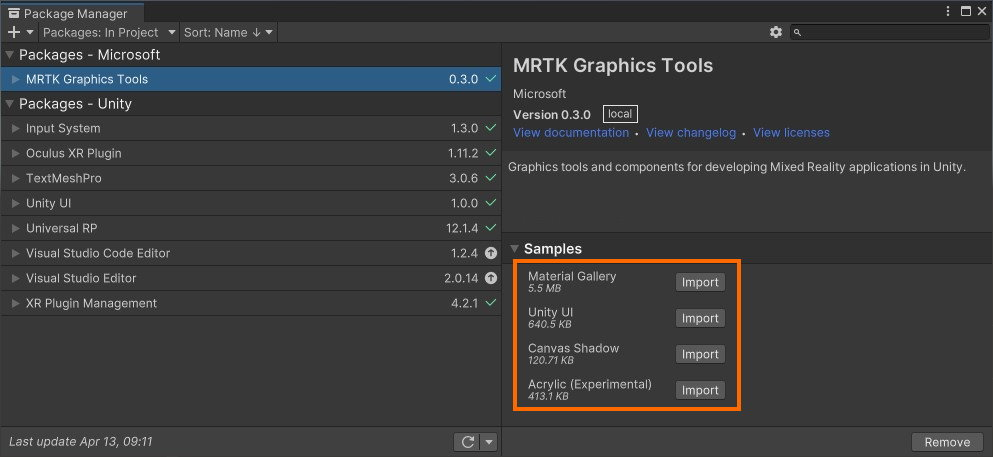
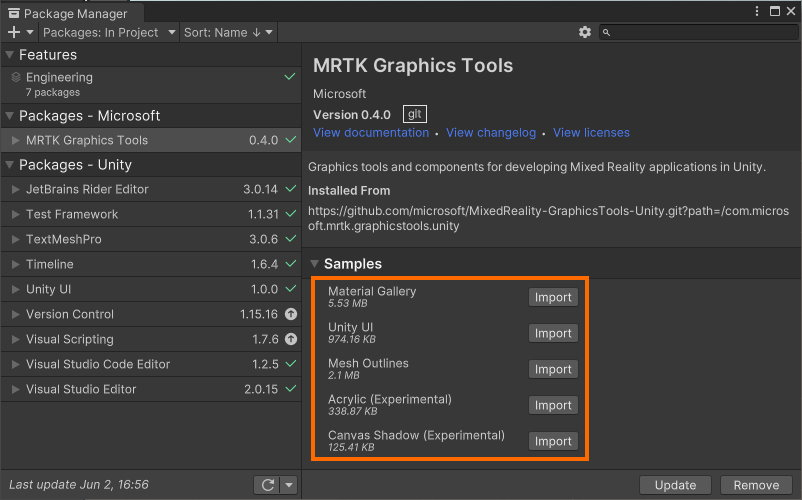
Index and contrib updates.

diff --git a/mrtk-unity/mrtk3-graphicstools/index.md b/mrtk-unity/mrtk3-graphicstools/index.md
@@ -8,37 +8,32 @@ ms.localizationpriority: high
 keywords: Unity, HoloLens, HoloLens 2, Mixed Reality, development, MRTK, Graphics Tools, MRGT, MR Graphics Tools, Standard Shader
 ---
 
-# What is the Mixed Reality Graphics Tools
+![Graphics Tools](images/MRTKBanner.png)
 
-![MRTK Banner](images/MRTKBanner.png)
+# What is Graphics Tools?
 
-Graphics tools and components for developing Mixed Reality applications in Unity.
+MRTK Graphics Tools for Unity is a Unity engine package with code, shaders, assets, and samples created to help improve the visual fidelity of Mixed Reality applications while staying within performance budgets.
 
-> **_NOTE:_** This package is an evolution of the [MRTK/Standard shader system](https://docs.microsoft.com/en-us/windows/mixed-reality/mrtk-unity/features/rendering/mrtk-standard-shader?view=mrtkunity-2021-05) and other components. The equivalent of the `MRTK/Standard` shader within Graphics Tools is the `Graphics Tools/Standard` shader. New features have been added to better support Unity UI and the new Mixed Reality Design System.
+> [!NOTE]
+> The Graphics Tools package requires Unity 2020.x and above.
 
-> **_NOTE:_** Graphics Tools requires Unity 2020.x and above.
+## Getting started with Graphic Tools
+
+If using MRTK please follow the getting started docs found [here](https://docs.microsoft.com/windows/mixed-reality/mrtk-unity/mrtk2/?view=mrtkunity-2022-05#getting-started-with-mrtk). If you wish to use the Graphics Tools plugin on its own, please read the instructions in the Graphics Tools [GitHub repository](https://github.com/microsoft/MixedReality-GraphicsTools-Unity).
 
 ## Importing samples
 
-To open the samples contained within Graphics Tools expand the `"Samples"` list and click the `"Import"` button for any samples you would like to try:
+To view the samples contained within Graphics Tools select `Window > Package Manager` from the Unity file menu bar. Click on the `MRTK Graphics Tools` package and expand the `Samples` list. Finally, click the `Import` button for any samples you would like to try:
 
 ![Package Manager Samples](images/PackageManagerSamples.jpg)
 
-Samples will import into your project's Assets folder so they may be opened and modified.
+Samples will import into your project's `Assets` folder so they may be opened and modified.
 
-## Documentation
+## Highlighted feature areas
 
 Click on the below topics to learn more about specific features.
 
 | | | | |
 | :------------- | :----------: | -----------: | -----------: | 
-| [Standard shader](features/standard-shader.md) 🎨 | [Clipping primitive](features/clipping-primitive.md) ✂ | [Proximity light](features/proximity-light.md) 💡 | [Hover light](features/hover-light.md) 👆 |
-| [Material instance](features/material-gallery.md) ✨ | [Animation](features/animation.md) 🚶♀ | | |
-
-## Trademarks
-
-This project may contain trademarks or logos for projects, products, or services. Authorized use of Microsoft 
-trademarks or logos is subject to and must follow 
-[Microsoft's Trademark & Brand Guidelines](https://www.microsoft.com/en-us/legal/intellectualproperty/trademarks/usage/general).
-Use of Microsoft trademarks or logos in modified versions of this project must not cause confusion or imply Microsoft sponsorship.
-Any use of third-party trademarks or logos are subject to those third-party's policies.
+| [Standard shader](features/standard-shader.md) 🎨 | [UnityUI tooling](features/clipping-primitive.md) 🛠 | [Proximity light](features/proximity-light.md) 💡 | [Hover light](features/hover-light.md) 👆 |
+| [Editor tooling](features/editor-tooling.md) ✨ | [Animation](features/animation.md) 🚶♀ | [Clipping primitive](features/clipping-primitive.md) ✂ | [Mesh outlines](features/mesh-outlines.md) 💥 |

diff --git a/mrtk-unity/mrtk3-graphicstools/contributing/contributing.md b/mrtk-unity/mrtk3-graphicstools/contributing/contributing.md
@@ -7,15 +7,14 @@ ms.date: 05/05/2022
 keywords: Unity,HoloLens, HoloLens 2, Mixed Reality, development, MRTK, Graphics Tools, MRGT, MR Graphics Tools, Bug report,
 ---
 
-# Contributing to MR Graphics Tools
+# Contributing to Graphics Tools
 
 ## Updating the package
 
-1. Clone the repository and make a branch. Recommended branch naming is `user/username/feature`.
-2. Open the `MRGTUnityProject` in Unity.
+1. Fork the [repository](https://github.com/microsoft/MixedReality-GraphicsTools-Unity) and make a branch. Recommended branch naming is `user/username/feature`.
+2. Clone and open the `GraphicsToolsUnityProject` example project in Unity.
 3. Make any desired changes. By default all edits within the `MRTK Graphics Tools` package will be published to the Graphics Tools package. (If you would like to update the samples please see the below section.)
-4. **Important:** Bump the package.json file's `version` field. The package.json file is found in the `MRGT` folder at the root of this repository.
-5. Push your branch up to the repository and create a pull request.
+4. Push your branch up to your fork and create a pull request. Please add a description of changes to the pull request. Images and gifs are always appreciated.
 
 ## Updating the package samples
 
@@ -23,20 +22,9 @@ Samples exist under the `Samples~` subfolder as outlined by Unity's [sample reco
 
 If you wish to contribute changes to the samples you must make a temporary local change to the Unity project's directory structure.
 
-1. Open the `MRGTUnityProject` in Unity. The `Samples` folder will not be visible in the `MRTK Graphics Tools` package by default. To show the samples select `Window > Graphics Tools > Show Samples` from the file menu bar.
+1. Open the `GraphicsToolsUnityProject` in Unity. The `Samples` folder will not be visible in the `MRTK Graphics Tools` package by default. To show the samples select `Window > Graphics Tools > Show Samples` from the file menu bar.
 2. Make any desired changes to the samples.
 3. **Important:** When finished and before committing your changes, remember to hide the samples. Select `Window > Graphics Tools > Hide Samples` from the file menu bar.
 
-## License agreement
-
-This project welcomes contributions and suggestions.  Most contributions require you to agree to a
-Contributor License Agreement (CLA) declaring that you have the right to, and actually do, grant us
-the rights to use your contribution. For details, visit [contributor license agreement](https://cla.opensource.microsoft.com).
-
-When you submit a pull request, a CLA bot will automatically determine whether you need to provide
-a CLA and decorate the PR appropriately (e.g., status check, comment). Simply follow the instructions
-provided by the bot. You will only need to do this once across all repos using our CLA.
-
-This project has adopted the [Microsoft Open Source Code of Conduct](https://opensource.microsoft.com/codeofconduct/).
-For more information see the [Code of Conduct FAQ](https://opensource.microsoft.com/codeofconduct/faq/) or
-contact [opencode@microsoft.com](mailto:opencode@microsoft.com) with any additional questions or comments.
+> [!TIP]
+> Failing to invoke the `Window > Graphics Tools > Hide Samples` menu item after editing samples will result in git thinking all sample files have changed. Once samples are hidden the actual files changed should be apparent in git.

diff --git a/mrtk-unity/mrtk3-graphicstools/features/standard-shader.md b/mrtk-unity/mrtk3-graphicstools/features/standard-shader.md
@@ -24,7 +24,7 @@ The Graphics Tools/Standard shading system is an "uber shader" that uses [Unity'
 
 To better support traditional Unity workflows and [UnityUI](https://docs.unity3d.com/Packages/com.unity.ugui@1.0/manual/index.html) (canvas) workflows the Graphics Tools/Standard shading system has two shader entry points:
 
-|        | Default                 | UnityUI                        |
+| Context| Default                 | UnityUI                        |
 |--------|-------------------------|--------------------------------|
 | Name   | *Graphics Tools/Standard* | *Graphics Tools/Standard Canvas* |
 | Shader | GraphicsToolsStandard   | GraphicsToolsStandardCanvas    |
